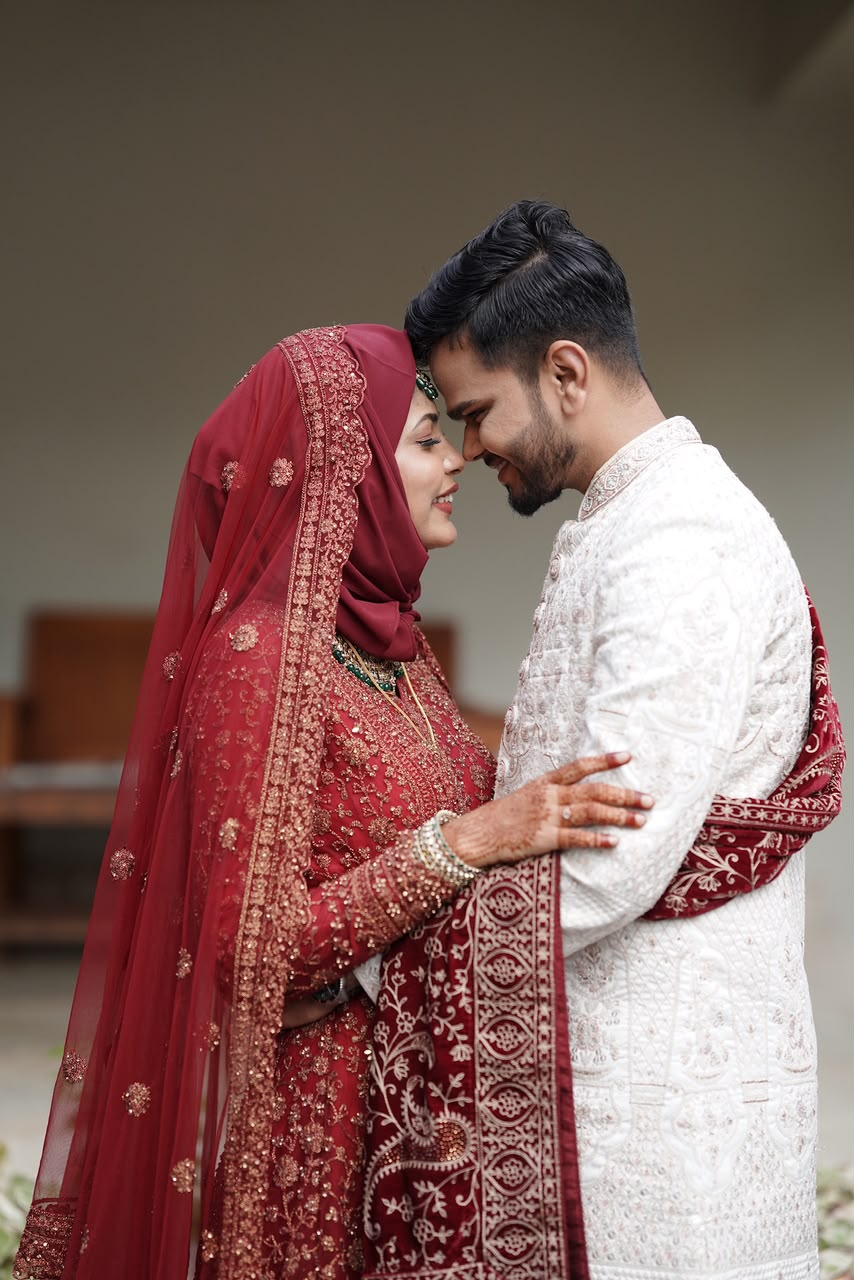
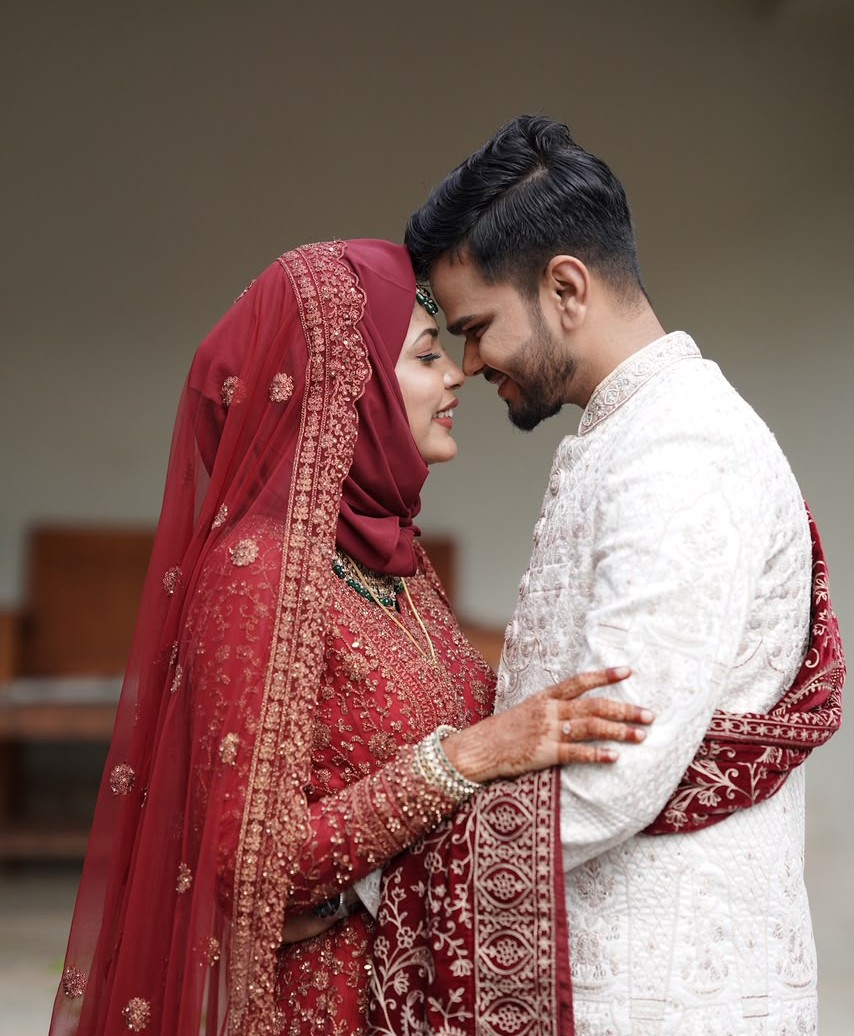
rsvp

diff --git a/src/styles.css b/src/styles.css
@@ -812,10 +812,108 @@ img { display: block; max-width: 100%; }
   transform: translateY(-2px);
 }
 
+.btn-wa {
+  background: linear-gradient(135deg, #128c3e, #25d366);
+  color: #ffffff;
+  border: 1px solid rgba(37,211,102,0.5);
+  box-shadow: 0 4px 20px rgba(37,211,102,0.25);
+}
+
+.btn-wa i {
+  font-size: 1.15rem;
+  color: #ffffff;
+}
+
+.btn-wa:hover {
+  background: linear-gradient(135deg, #0e7a35, #1fbb58);
+  border-color: rgba(37,211,102,0.9);
+  transform: translateY(-2px);
+  box-shadow: 0 8px 28px rgba(37,211,102,0.4);
+}
+
+/* ═══════════════════════════════════════════════════════
+   RSVP
+══════════════════════════════════════════════════════════ */
+.rsvp-section { background: var(--charcoal); max-width: 100%; padding: 6rem 1.5rem; }
+
+.rsvp-card {
+  background: linear-gradient(160deg, var(--charcoal-3) 0%, rgba(26,40,64,0.95) 100%);
+  border: 1px solid rgba(226,168,51,0.2);
+  border-radius: 6px;
+  padding: 3rem 2rem;
+  max-width: 480px;
+  margin: 0 auto;
+  text-align: center;
+  box-shadow: 0 8px 50px rgba(8,14,26,0.5);
+}
+
+.rsvp-icon-wrap {
+  width: 72px;
+  height: 72px;
+  border-radius: 50%;
+  background: linear-gradient(135deg, #1a3a22, #0d2416);
+  border: 1px solid rgba(37,211,102,0.35);
+  display: flex;
+  align-items: center;
+  justify-content: center;
+  margin: 0 auto 1.5rem;
+  box-shadow: 0 4px 24px rgba(37,211,102,0.2);
+}
+
+.rsvp-wa-icon {
+  font-size: 2rem;
+  color: #25d366;
+}
+
+.rsvp-msg {
+  font-family: var(--ff-serif);
+  font-style: italic;
+  font-size: 1rem;
+  color: var(--text-dim);
+  line-height: 1.8;
+  margin-bottom: 2rem;
+}
+
+.rsvp-btn {
+  background: linear-gradient(135deg, #1a4d2a, #128c3e);
+  color: #ffffff;
+  border: 1px solid rgba(37,211,102,0.4);
+  box-shadow: 0 4px 24px rgba(37,211,102,0.25);
+  border-radius: 4px;
+  font-size: 0.78rem;
+  font-weight: 600;
+  letter-spacing: 0.15em;
+  padding: 0.9rem 2.2rem;
+  text-transform: uppercase;
+  text-decoration: none;
+  display: inline-flex;
+  align-items: center;
+  gap: 0.6rem;
+  transition: all var(--transition);
+}
+
+.rsvp-btn:hover {
+  background: linear-gradient(135deg, #1f5c33, #159646);
+  border-color: rgba(37,211,102,0.7);
+  transform: translateY(-2px);
+  box-shadow: 0 8px 32px rgba(37,211,102,0.35);
+}
+
+.rsvp-btn i { font-size: 1.1rem; }
+
+.rsvp-note {
+  margin-top: 1.2rem;
+  font-size: 0.68rem;
+  letter-spacing: 0.18em;
+  text-transform: uppercase;
+  color: var(--text-muted);
+}
+
 /* ═══════════════════════════════════════════════════════
    GALLERY
 ══════════════════════════════════════════════════════════ */
 .gallery { background: var(--charcoal); max-width: 100%; padding: 6rem 1.5rem; }
+
 
 .gallery-grid {
   display: grid;

diff --git a/src/routes/index.tsx b/src/routes/index.tsx
@@ -257,21 +257,7 @@
           <a href="#verse" className="scroll-indicator" aria-label="Scroll down">
             <span className="chev" />
           </a>
-        </section>
-
-        {/* ── VERSE ── */}
-        <section id="verse" className="section verse">
-          <div className="verse-card" data-reveal>
-            <div className="line-divider">
-              <span>✦</span>
-            </div>
-            <p className="verse-text">"And We created you in pairs."</p>
-            <p className="verse-ref">— Surah An-Naba (78:8)</p>
-            <div className="line-divider">
-              <span>✦</span>
-            </div>
-          </div>
-        </section>
+        </section> 
 
         {/* ── FAMILIES ── */}
         <section className="section families">
@@ -382,14 +368,40 @@
                 <i className="fa-solid fa-location-dot" /> Open Google Maps
               </a>
               <a
-                className="btn btn-outline"
-                href={MAPS_URL}
+                className="btn btn-wa"
+                href="https://wa.me/918086769152?text=Assalamu%20Alaykum%2C%20I%20would%20like%20to%20confirm%20my%20attendance%20at%20the%20wedding%20of%20Sabith%20Ali%20%26%20Fathima%20Nihana%20on%2008%20August%202026.%20%F0%9F%8C%BF"
                 target="_blank"
                 rel="noreferrer"
               >
-                <i className="fa-solid fa-compass" /> Get Directions
+                <i className="fa-brands fa-whatsapp" /> RSVP on WhatsApp
               </a>
             </div>
+          </div>
+        </section>
+
+        {/* ── WHATSAPP RSVP ── */}
+        <section className="section rsvp-section" id="rsvp">
+          <h2 className="section-title" data-reveal>RSVP</h2>
+          <div className="section-sub" data-reveal>
+            Let us know you're coming
+          </div>
+          <div className="rsvp-card" data-reveal>
+            <div className="rsvp-icon-wrap">
+              <i className="fa-brands fa-whatsapp rsvp-wa-icon" />
+            </div>
+            <p className="rsvp-msg">
+              We'd be honoured to have you celebrate with us. Please click below
+              to confirm your attendance via WhatsApp.
+            </p>
+            <a
+              className="btn rsvp-btn"
+              href="https://wa.me/918086769152?text=Assalamu%20Alaykum%2C%20I%20would%20like%20to%20confirm%20my%20attendance%20at%20the%20wedding%20of%20Sabith%20Ali%20%26%20Fathima%20Nihana%20on%2008%20August%202026.%20%F0%9F%8C%BF"
+              target="_blank"
+              rel="noreferrer"
+            >
+              <i className="fa-brands fa-whatsapp" /> Confirm Attendance
+            </a>
+            <p className="rsvp-note">Tap to open WhatsApp · +91 80867 69152</p>
           </div>
         </section>
 